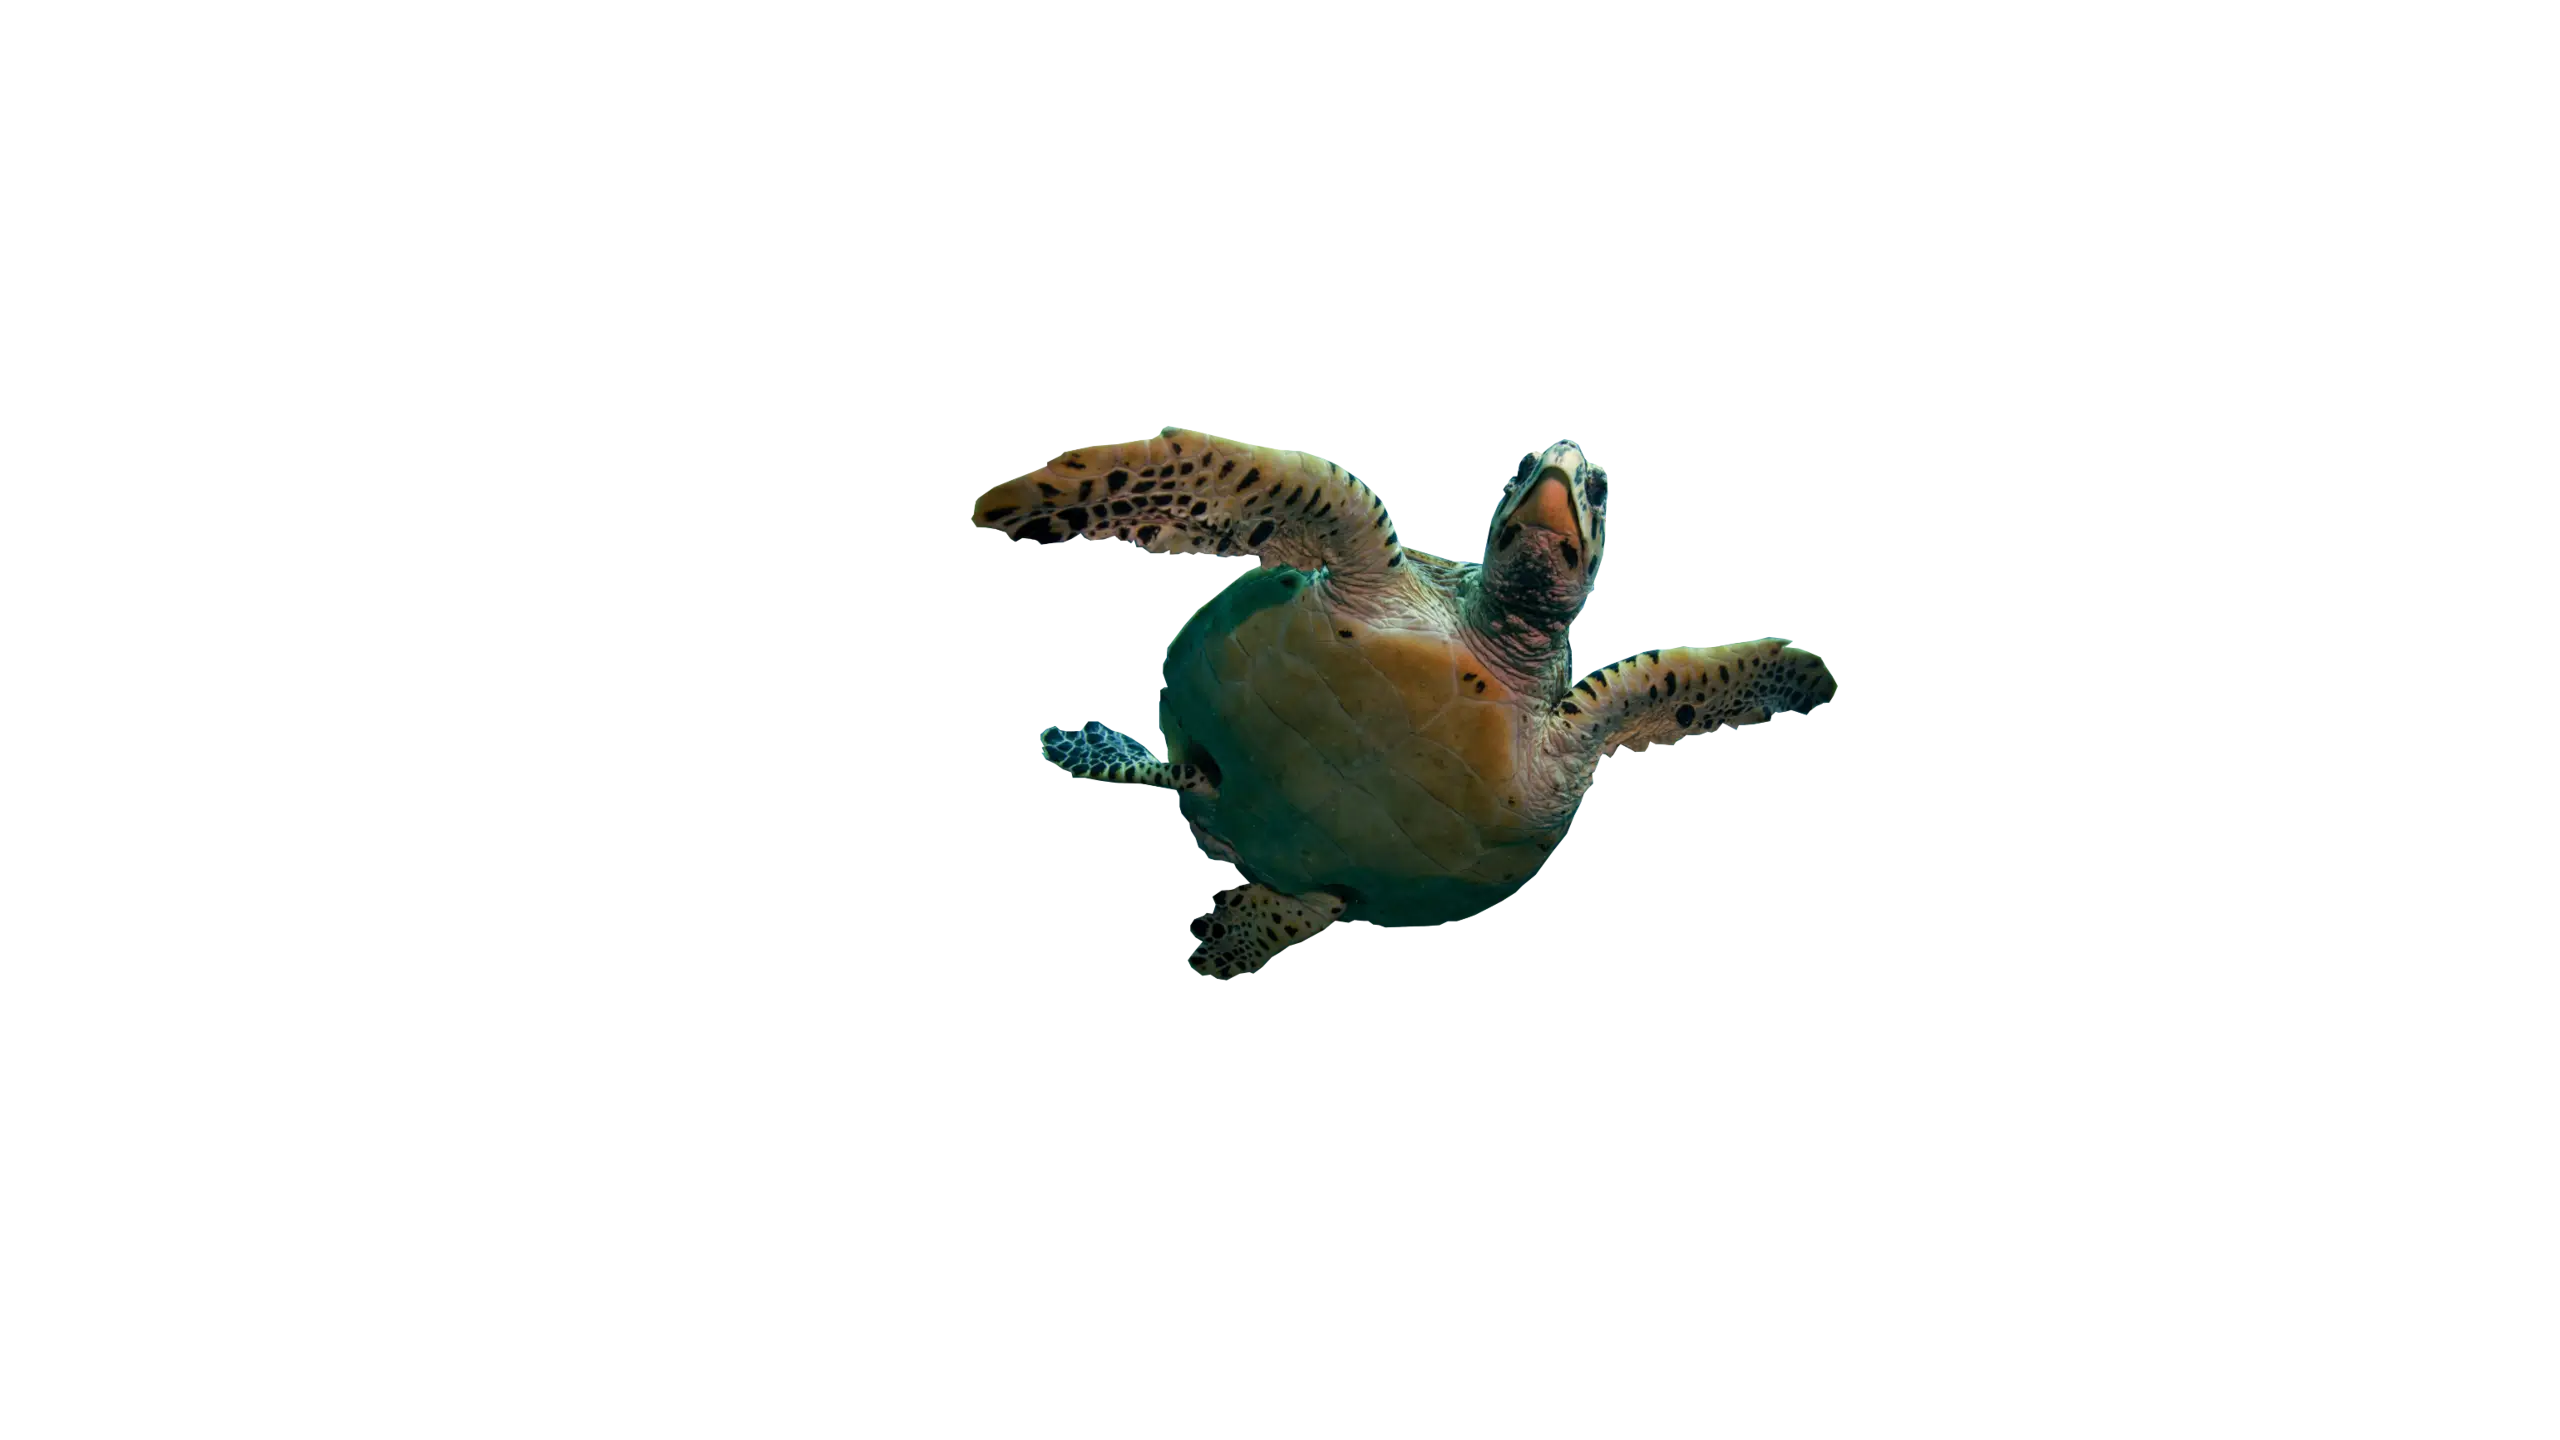
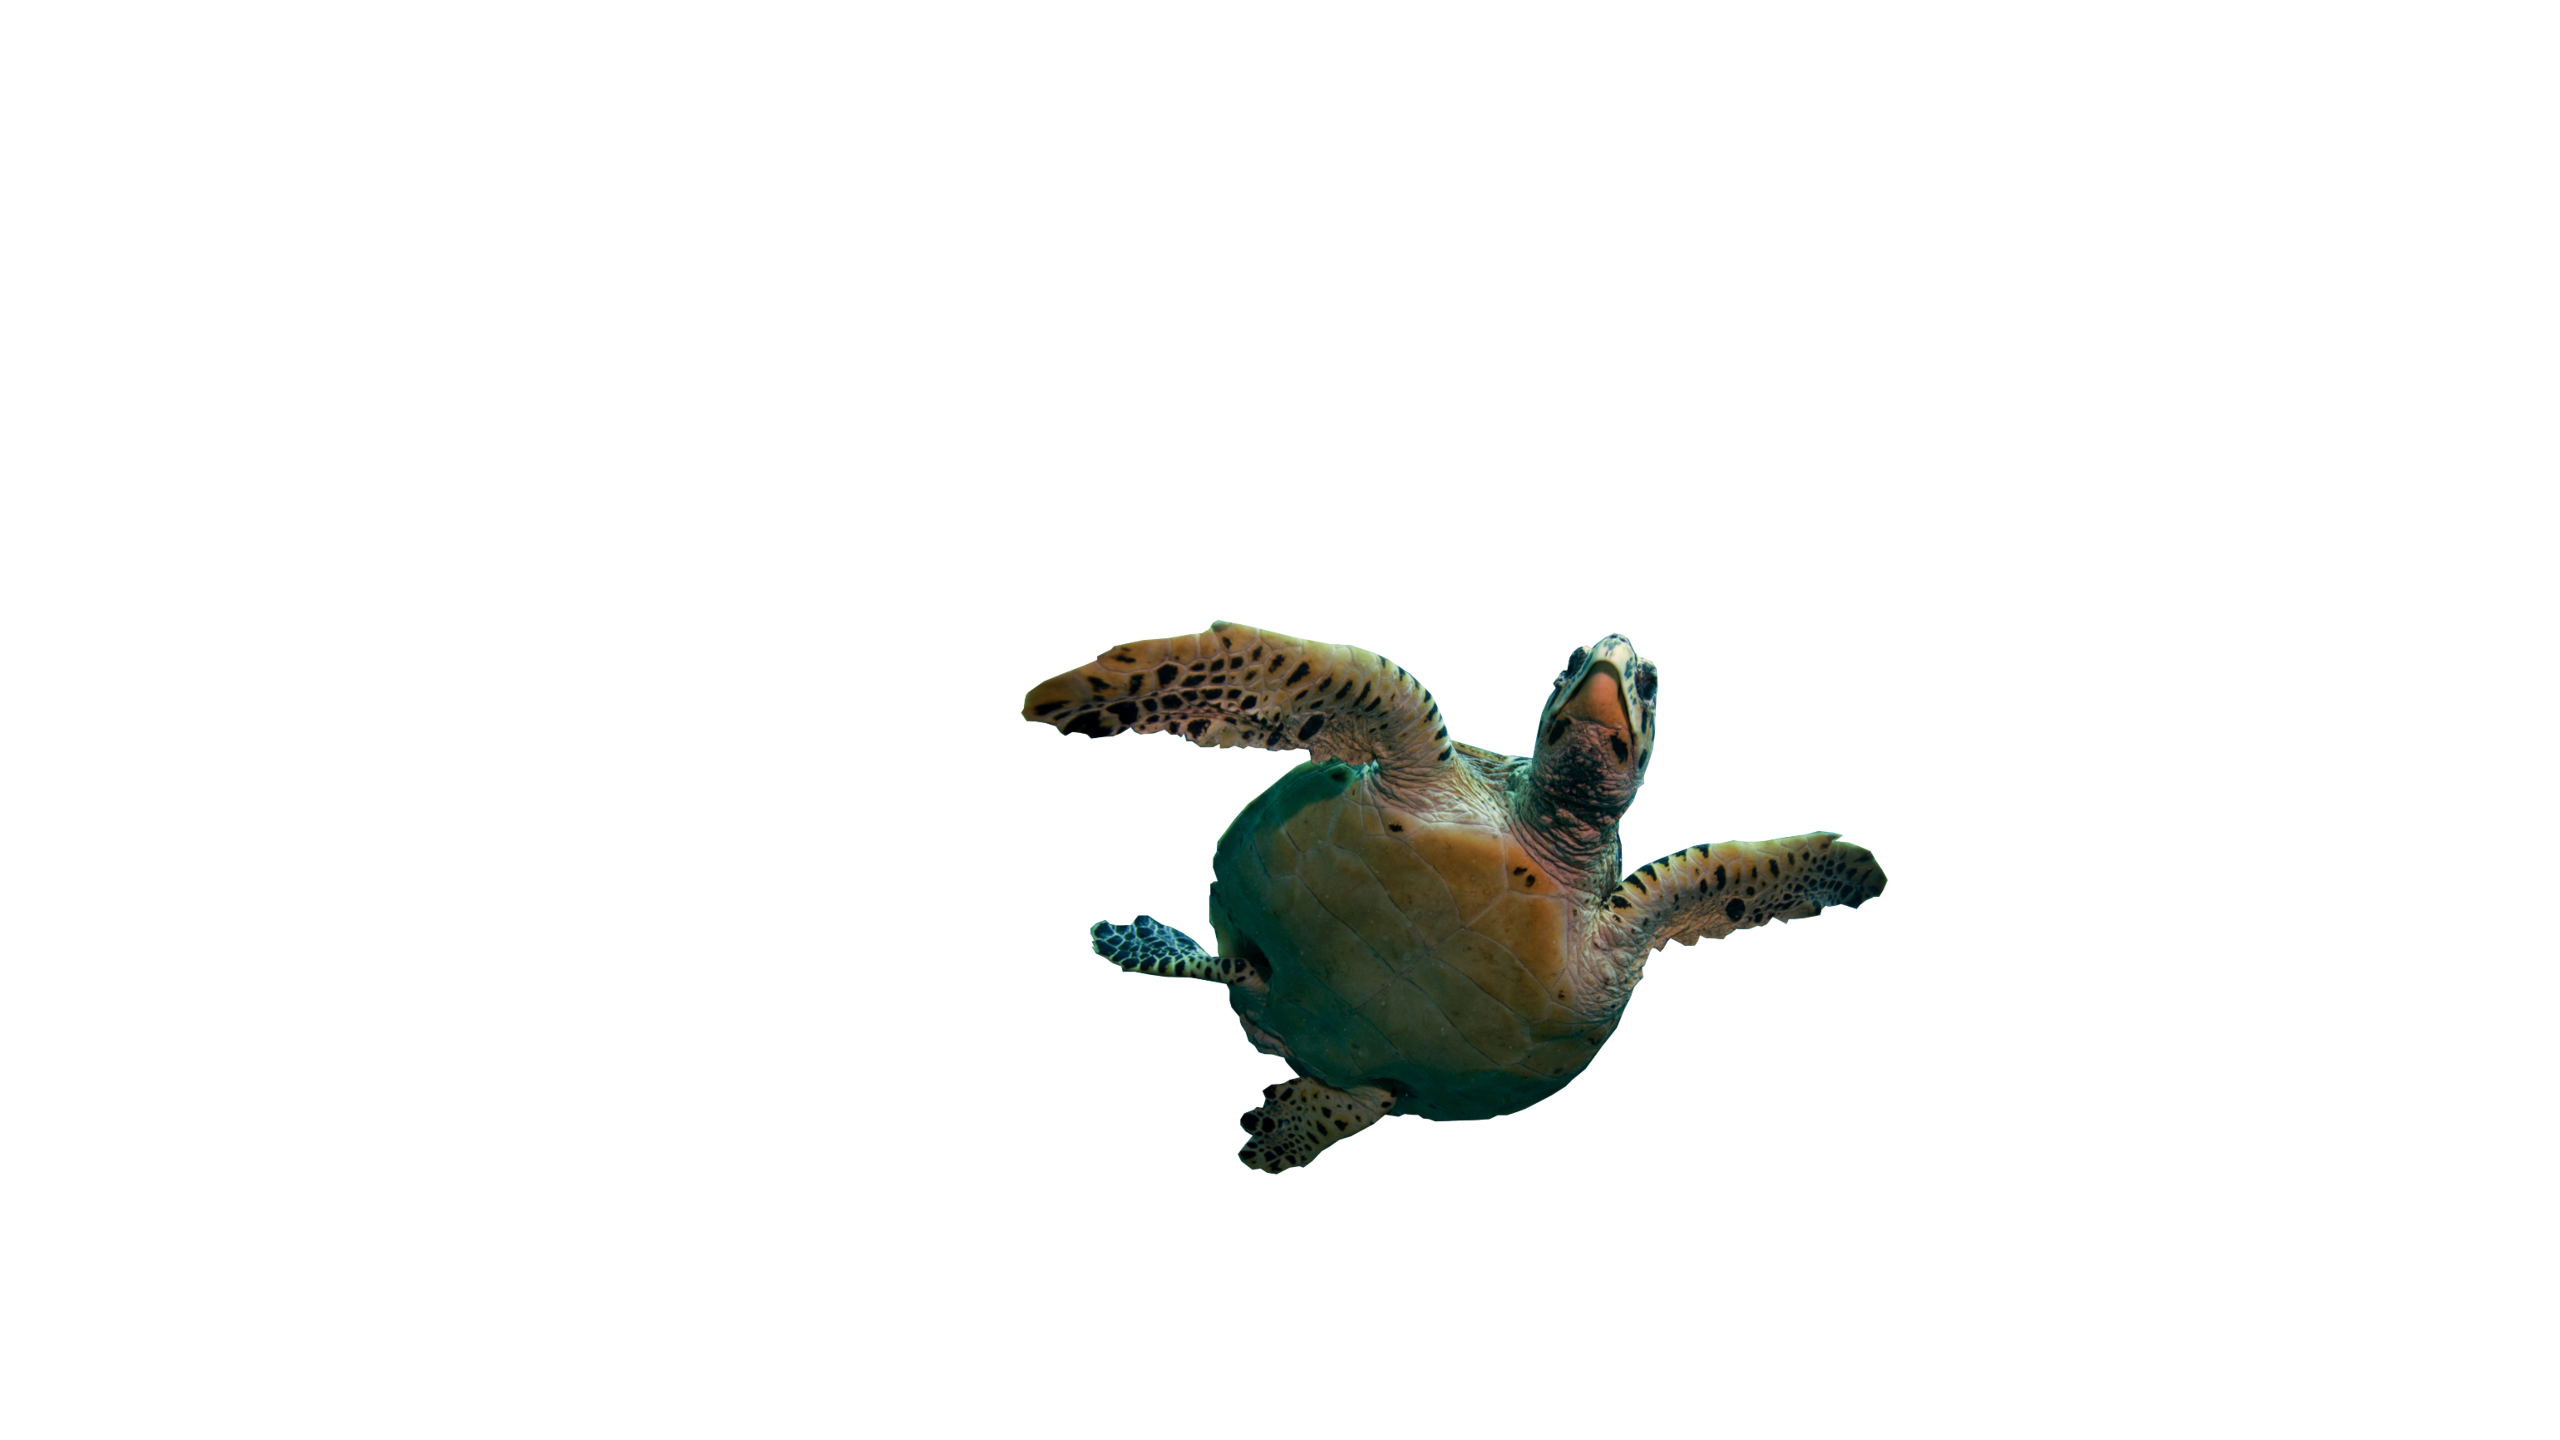
added pallarax turtle on scroll, and other minor adjustments

Changed region(s): [[0.375, 0.2812, 0.75, 0.8125]]

diff --git a/index.html b/index.html
@@ -22,21 +22,22 @@
         <h1 class="logo-small">aquatica</h1>
         <h1 class="logo-large">aquatica</h1>
     </header>
+    <!-- hero -->
     <div class="hero">
-        <img class="bg" src="./assets/ocean_bg.webp" alt="ocean depths">
-        <img class="turtle" src="./assets/turtle.webp" alt="turtle">
+        <img draggable="false" class="bg" src="./assets/ocean_bg.webp" alt="ocean depths">
+        <img id="turtle" draggable="false" src="./assets/turtle.webp" alt="turtle">
     </div>
     <main>
         <!-- placeholder -->
         <section>
         <div class="grid-container">
             <div class="left">
-                <img src="https://picsum.photos/1920/1080" alt="">
+                <img draggable="false" src="https://picsum.photos/1920/1080" alt="">
             </div>
             <div class="right">
                 <h2>placeholder</h2>
 
-                <p>Lorem ipsum dolor sit amet consectetur adipisicing elit. Quisquam recusandae, quo aspernatur esse quaerat delectus fugiat tempora minima quis voluptatum cumque architecto quia necessitatibus autem, eos similique! Harum maiores, necessitatibus natus accusamus eum dignissimos eos voluptate sequi, perspiciatis ea omnis.</p>
+                <p>Lorem ipsum dolor sit amet consectetur adipisicing elit. Quisquam recusandae, quo aspernatur esse quaerat delectus fugiat tempora minima quhis voluptatum cumque architecto quia necessitatibus autem, eos similique! Harum maiores, necessitatibus natus accusamus eum dignissimos eos voluptate sequi, perspiciatis ea omnis.</p>
 
                 <p>Lorem ipsum dolor sit amet consectetur adipisicing elit. Facilis delectus distinctio esse quisquam a commodi hic impedit explicabo. Fuga cum voluptatem aperiam soluta, ipsum facere?</p>
 
@@ -57,7 +58,7 @@
                 <p>Lorem ipsum dolor sit amet consectetur adipisicing elit. Nesciunt porro</p>
             </div>
             <div class="right">
-                <img src="https://picsum.photos/1920/1080" alt="">
+                <img draggable="false" src="https://picsum.photos/1920/1080" alt="">
             </div>
         </div>
         </section>
@@ -71,7 +72,7 @@
         <!-- placeholder -->
         <div class="grid-container">
             <div class="left">
-                <img src="https://picsum.photos/1920/1080" alt="">
+                <img draggable="false" src="https://picsum.photos/1920/1080" alt="">
             </div>
             <div class="right">
                 <h2>placeholder</h2>
@@ -96,7 +97,7 @@
                     <p>Lorem ipsum dolor sit amet consectetur adipisicing elit. Nesciunt porro</p>
                 </div>
                 <div class="right">
-                    <img src="https://picsum.photos/1920/1080" alt="">
+                    <img draggable="false" src="https://picsum.photos/1920/1080" alt="">
                 </div>
             </div>
         </section>
@@ -117,13 +118,13 @@
                 <p>Lorem ipsum dolor sit amet consectetur adipisicing elit. Nesciunt porro</p>
             </div>
             <div class="right">
-                <img src="https://picsum.photos/1920/1080" alt="">
+                <img draggable="false" src="https://picsum.photos/1920/1080" alt="">
             </div>
         </div>
         <!-- placeholder -->
         <div class="grid-container">
             <div class="left">
-                <img src="https://picsum.photos/1920/1080" alt="">
+                <img draggable="false" src="https://picsum.photos/1920/1080" alt="">
             </div>
             <div class="right">
                 <h2>placeholder</h2>

diff --git a/style.css b/style.css
@@ -1,4 +1,5 @@
 @import url('https://fonts.googleapis.com/css2?family=Cinzel:wght@400..900&family=Didact+Gothic&family=Paytone+One&display=swap');
+
 * {
     padding: 0;
     margin: 0;
@@ -17,12 +18,13 @@ body {
     font-family: "Didact Gothic", serif;
     color: var(--clr-white);
     background-color: var(--clr-darkTeal);
+    overflow-x: hidden;
     cursor: default;
 }
 /* logo */
 .logo-small {
     position: absolute;
-    top: 1.75rem;
+    top: .75rem;
     left: 1.25rem;
     font-size: clamp(1.75rem, 3vw, 2.5rem);
     font-family: "Cinzel", serif;
@@ -50,24 +52,23 @@ body {
 .logo-large.active {
     visibility: visible;
     opacity: 1;
-    transform: translateY(50px);
+    transform: translateY(72px);
 }
 /* hero */
 .hero img {
     position: relative;
     width: 100%;
-    min-height: 100vh;
+    height: 100%;
     object-fit: cover;
     mask-image: linear-gradient(180deg, 
     rgba(0, 0, 0, 1) 70%, 
     transparent 90%);
 }
-.hero .turtle {
-    width: 100%;
+.hero #turtle {
+    width: 90%;
     height: auto;
     position: absolute;
-    inset: 0;
-    z-index: 1;
+    z-index: 2;
 }
 /* main */
 .grid-container {

diff --git a/script.js b/script.js
@@ -1,9 +1,10 @@
 let logoSmall = document.querySelector('.logo-small');
 let logoLarge = document.querySelector('.logo-large');
+let turtle = document.getElementById('turtle');
 
 //hides small logo on scroll
 window.addEventListener('scroll', () => {
-    if (window.scrollY > 5) {
+    if (window.scrollY > 10) {
         logoSmall.classList.add("active");
     }
     else if (window.scrollY < 5) {
@@ -19,4 +20,12 @@ window.addEventListener('scroll', () => {
     else if (window.scrollY < 5) {
         logoLarge.classList.remove("active");
     }
+});
+
+//parallax turtle
+window.addEventListener('scroll', () => {
+    let value = window.scrollY;
+
+    turtle.style.top = value * -.75 + 'px';
+    turtle.style.left = value * .75 + 'px';
 });
